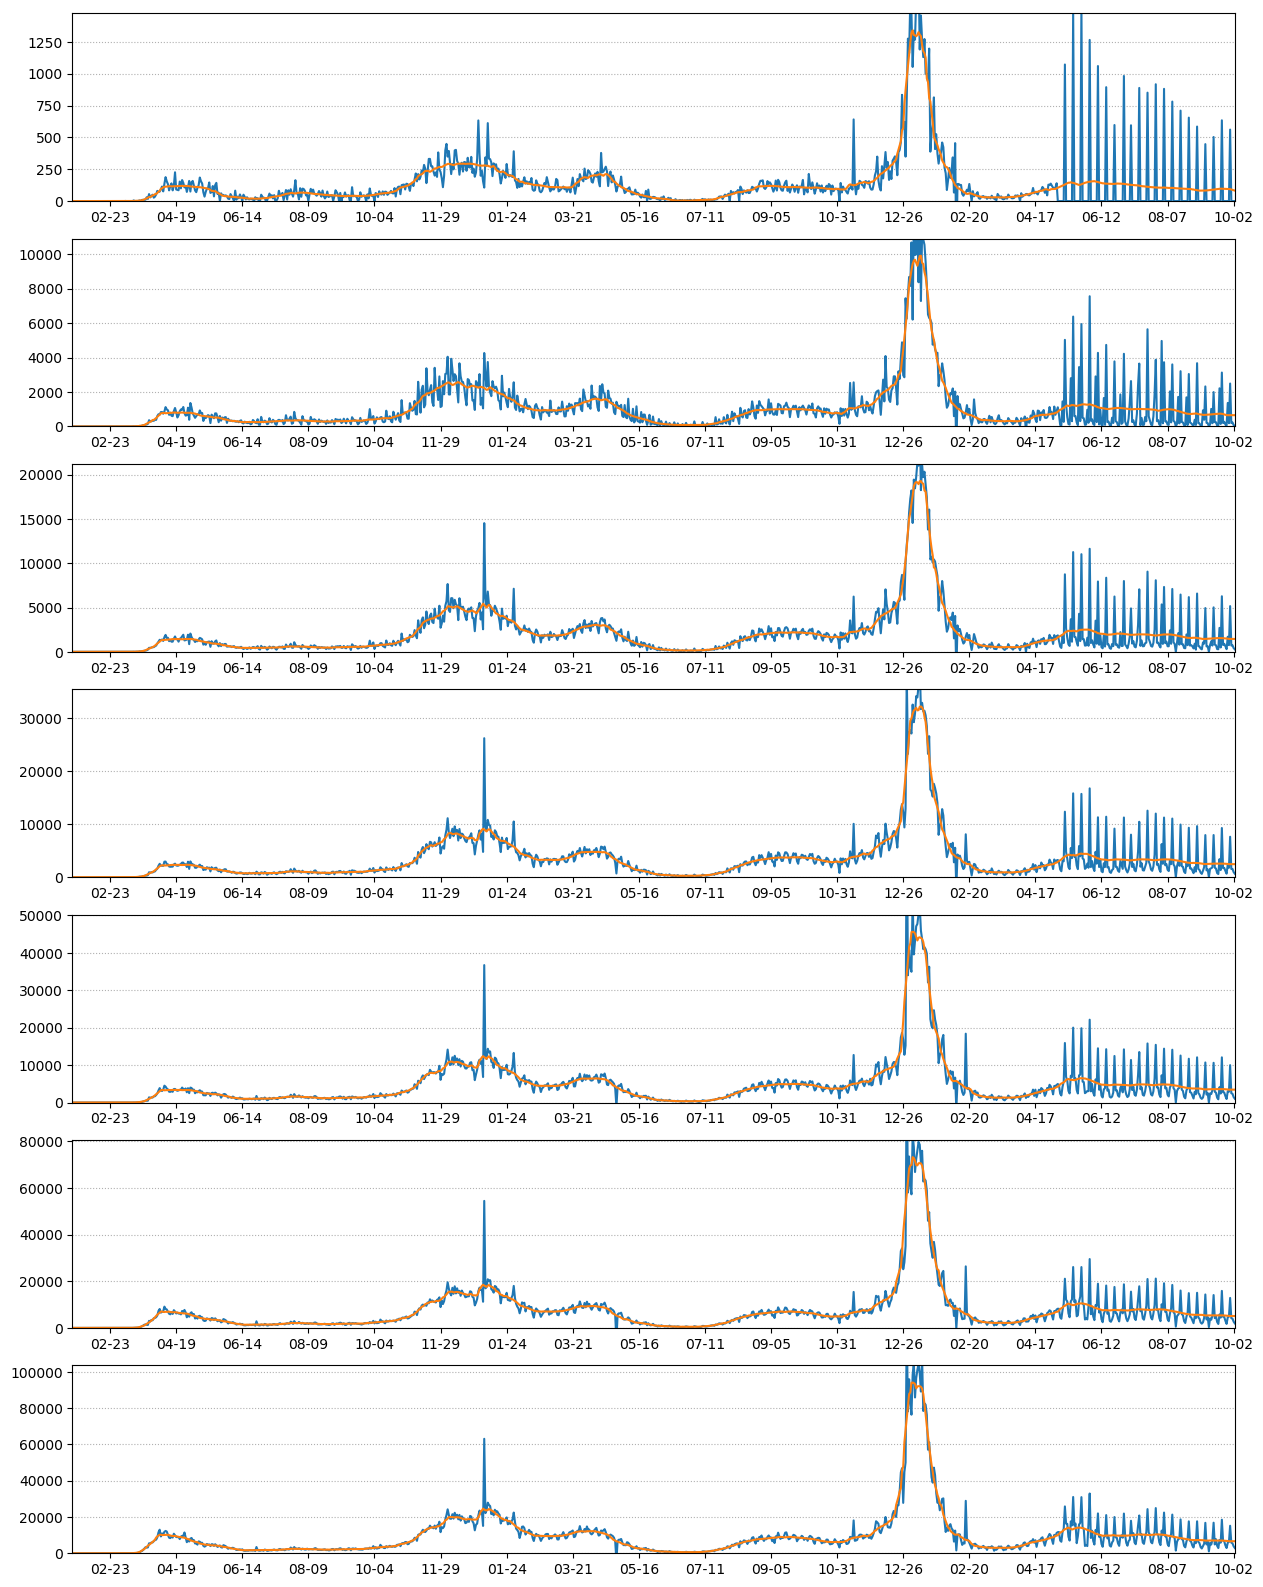
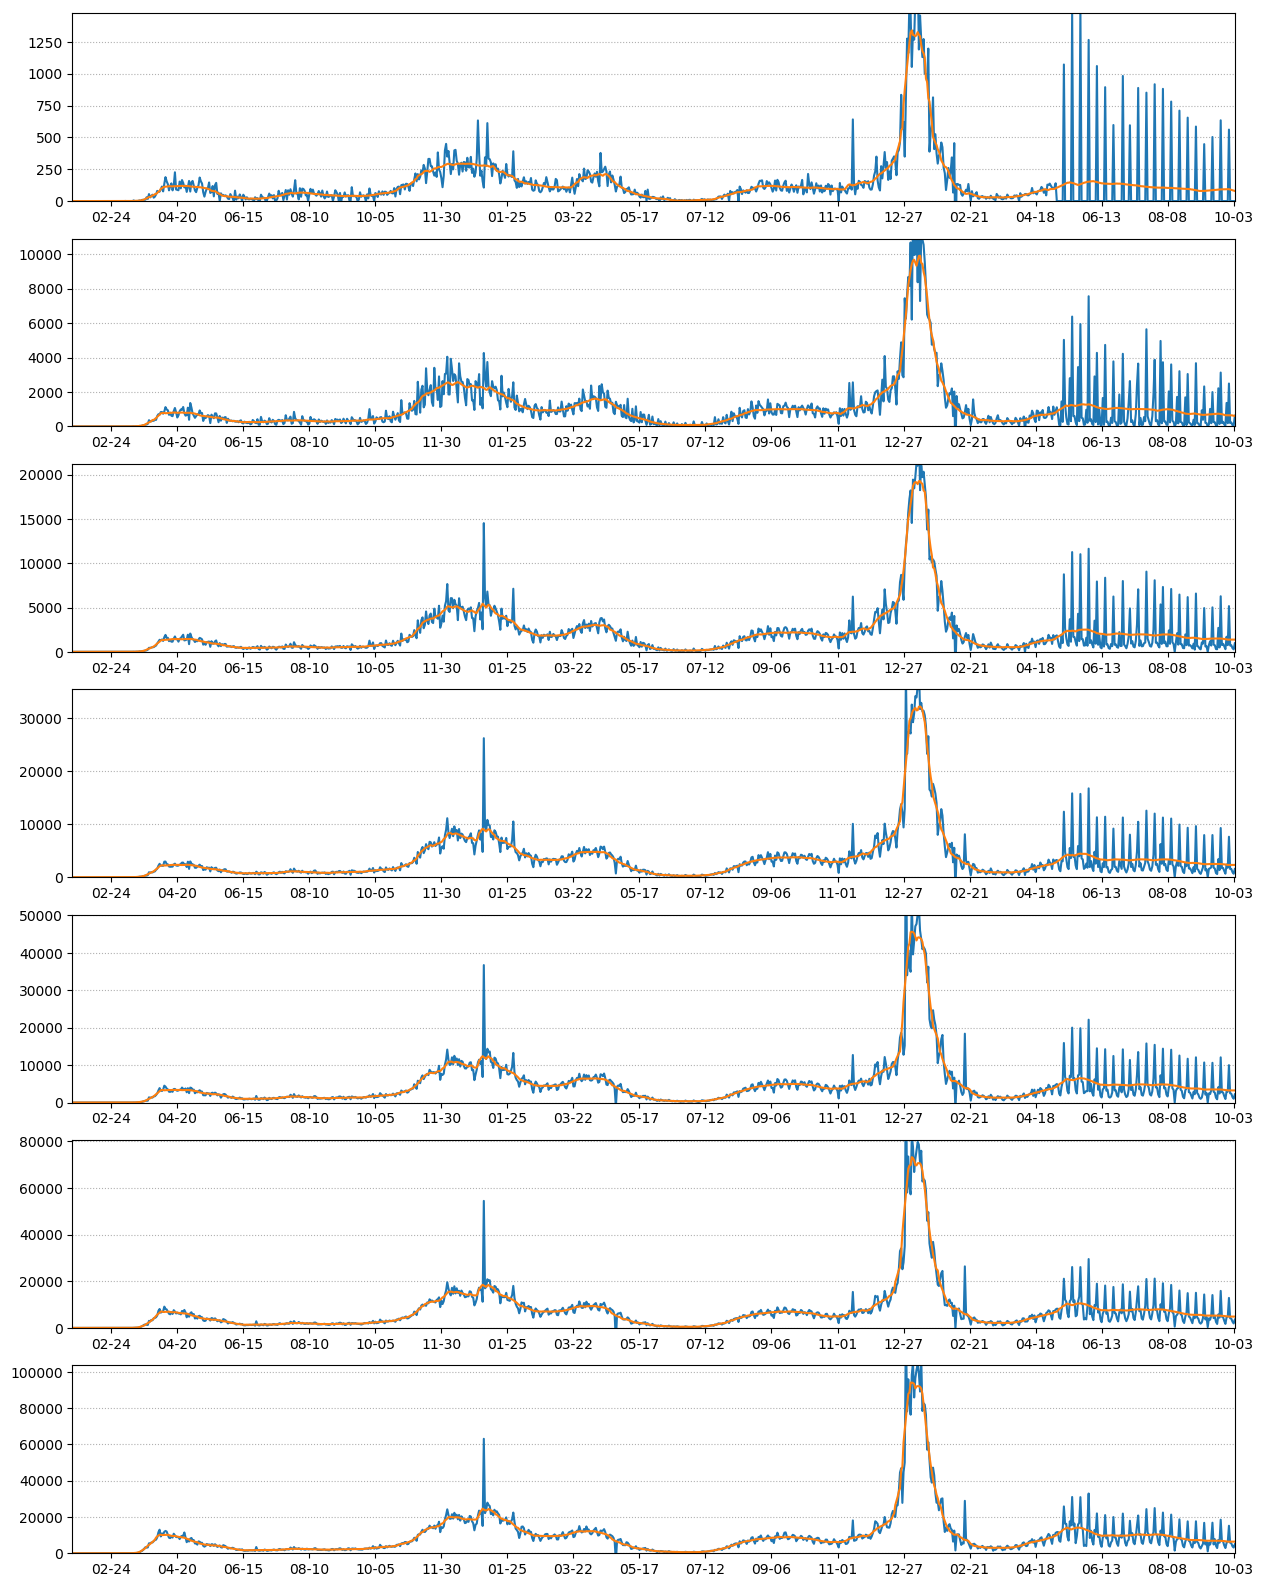
daily forecast

diff --git a/dailymessage.html b/dailymessage.html
@@ -1,46 +1,46 @@
 Delaware County COVID-19 Monitor<br>
-as of 2022-10-02<br>
+as of 2022-10-03<br>
 <table border="1" cellspacing="5" cellpadding="3">
 <tr>
 <td>0</td>
-<td>82</td>
+<td>79</td>
 <td>566747</td>
-<td>14.4</td>
+<td>13.9</td>
 </tr>
 <tr>
 <td>1</td>
-<td>655</td>
+<td>620</td>
 <td>4357104</td>
-<td>15.0</td>
+<td>14.2</td>
 </tr>
 <tr>
 <td>2</td>
-<td>1451</td>
+<td>1378</td>
 <td>8052045</td>
-<td>18.0</td>
+<td>17.1</td>
 </tr>
 <tr>
 <td>3</td>
-<td>2456</td>
+<td>2308</td>
 <td>13327166</td>
-<td>18.4</td>
+<td>17.3</td>
 </tr>
 <tr>
 <td>4</td>
-<td>3449</td>
+<td>3246</td>
 <td>18498878</td>
-<td>18.6</td>
+<td>17.5</td>
 </tr>
 <tr>
 <td>5</td>
-<td>5100</td>
+<td>4854</td>
 <td>27240755</td>
-<td>18.7</td>
+<td>17.8</td>
 </tr>
 <tr>
 <td>6</td>
-<td>6643</td>
+<td>6411</td>
 <td>34871340</td>
-<td>19.0</td>
+<td>18.3</td>
 </tr>
 </table>
